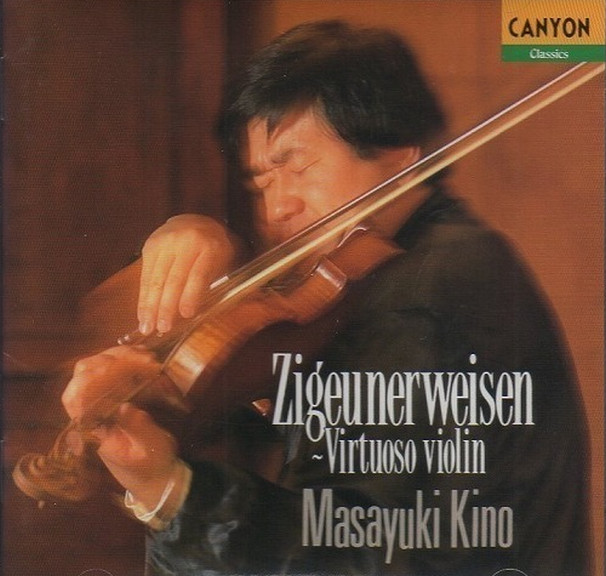
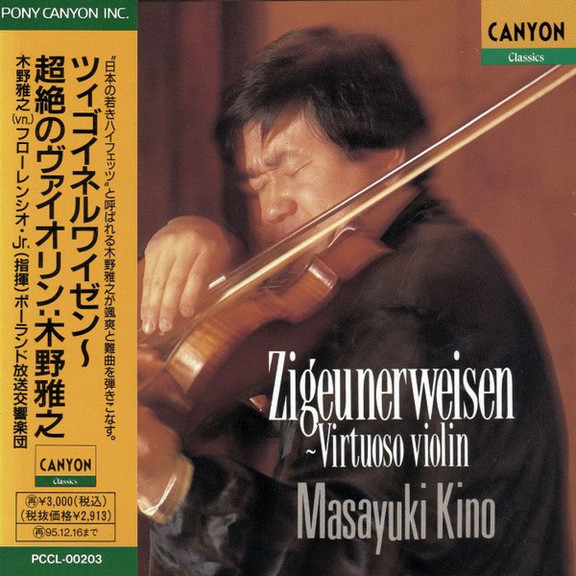
add EC 3652-2, update 203 cover w/obi and barcode

diff --git a/index.html b/index.html
@@ -1288,7 +1288,7 @@
     <td>1993</td>
     <td><img src="images/PCCL-00203_cover.jpg" height="150" /></td>
     <td><img src="images/PCCL-00203_back.jpg" height="150" /></td>
-    <td></td>
+    <td>4988013520639</td>
   </tr>
   <tr>
     <td>PCCL-00204</td>
@@ -3160,6 +3160,15 @@
     <td><img src="images/EC_3637-2_cover.jpg" height="150" /></td>
     <td><img src="images/EC_3637-2_back.jpg" height="150" /></td>
     <td></td>
+  </tr>
+  <tr>
+    <td>EC 3652-2</td>
+    <td>Mozart: Serenade No. 9 "Posthorn", 6 Kontretänze</td>
+    <td>Czech Philharmonic Chamber Orchestra</td>
+    <td>1995</td>
+    <td><img src="images/EC_3652-2_cover.jpg" height="150"/></td>
+    <td></td>
+    <td>016861365226</td>
   </tr>
   <tr>
     <td>EC 3655-2</td>
